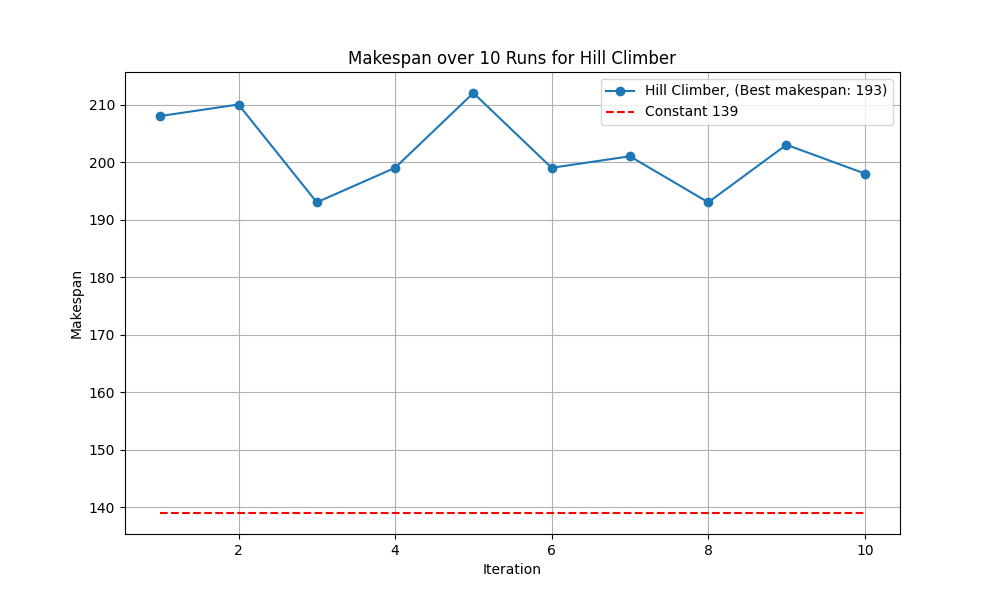
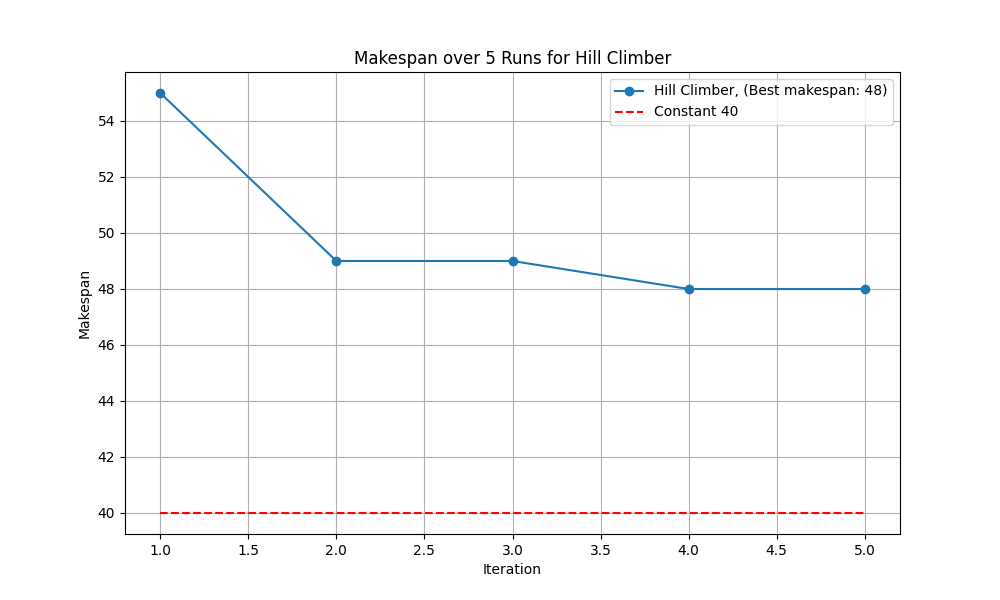
Separate scheule and compare script + algo.txt

diff --git a/main_schedule.py b/main_schedule.py
@@ -1,0 +1,133 @@
+from typing import List # For type hints to clarify data types
+
+from models import Job, Machine, Task
+from scheduler import Scheduler
+from utils import run_gannt_chart, save_chart_results
+
+
+
+### Data Reading from the file and object creation ###
+
+allJobs: List[Job] = []  # Will contain all the jobs with their tasks
+jobsNr: int = 0          # Will contain the number of jobs
+machinesNr: int = 0      # Will contain the number of machines
+ind: int = 0             # Will keep the job Id nr
+
+# Here is the read function in github data set format which is the following:
+"""
+First line: <number of jobs> <number of machines>
+Then one line per job: <number of operations> and then, for each operation, <number of machines for this operation> and for each machine, a pair <machine> <processing time>.
+Machine index starts at 0.
+"""
+with open('dataset_github.txt', 'r') as file:
+    #read by lines
+    first = True
+    for line in file:
+        allTasks = []# will keep all the tasks for a job before adding it to allJobs
+        elements = line.split()
+        if first: #we read the size of the problem JobsNr, MachinesNr
+            jobsNr, machinesNr = int(elements[0]), int(elements[1])
+            first = False
+        else: #here we read the tasks for each job and create the jobs
+            elements: List[int] = [int(e) for e in elements]        # Convert all to integers
+            curr_index: int = 0                                     # The index of where we are in the number array
+            num_ops: int = elements[curr_index]                     # Will contain the number of operations for the current job
+            curr_index += 1                         
+            operations: List[List[Task]] = []                       # List of list of tasks
+
+            for op in range(num_ops):                               # Here we "iterate" through the operations, or until the range of operations
+                num_machines: int = elements[curr_index]            # Here we'll keep the number of machines
+                curr_index += 1
+                task_list: List[Task] = []                          # A list of task for the current operation's tasks
+                
+                for m in range(num_machines):                       # Here we "iterate" through the machines and their durations, or until the range of machines
+                    machine_id: int = elements[curr_index]          # First element of the pair is machine_id
+                    curr_index += 1                         
+                    processing_time: int = elements[curr_index]     # Second element of the pair is processing time
+                    curr_index += 1
+                    task: Task = Task(machine_id, processing_time)  # We create the task
+                    task_list.append(task)                          # We append it to the current operaion's task list
+                    
+                operations.append(task_list)                        # We append the current operation with it's task to our operation list for the current job
+            
+            allJobs.append(Job(ind, operations))                    # We create the job with it's index and it's operaion list
+            ind += 1                                                # We increase the job index
+
+
+## Here is the read function for my format ##
+
+# with open('dataset2.txt', 'r') as file:
+#     #read by lines
+#     first = True
+#     for line in file:
+#         allTasks = []# will keep all the tasks for a job before adding it to allJobs
+#         elements = line.split()
+#         if first: #we read the size of the problem JobsNr, MachinesNr
+#             jobsNr, machinesNr = int(elements[0]), int(elements[1])
+#             first = False
+#         else: #here we read the tasks for each job and create the jobs
+#             isMachine = True
+#             isDuration = False
+#             add = []                                        #will keep the task list to be added
+#             currTaskNumbers = []                            #will keep the current task's [machine, duration]
+#             for element in elements:                        #we go through the elements of the job separated by space as strings
+#                 if(isMachine):          
+#                     if(element[0] == '['):                  #if it's the first one we remove the bracket
+#                         currTaskNumbers.append(int(element[1:]))
+#                     else:
+#                         currTaskNumbers.append(int(element))
+#                     #We swap the element's type processing
+#                     isMachine = False
+#                     isDuration = True
+#                 else:
+#                     if(element[len(element) - 1] == ']'):
+#                         currTaskNumbers.append(int(element[:-1]))
+#                         add.append(Task(currTaskNumbers[0], currTaskNumbers[1]))
+#                         currTaskNumbers.clear()
+#                         allTasks.append(copy.deepcopy(add))
+#                         add.clear()
+#                     else:
+#                         currTaskNumbers.append(int(element))
+#                         add.append(Task(currTaskNumbers[0], currTaskNumbers[1]))
+#                         currTaskNumbers.clear()
+#                     #We swap the element's type processing
+#                     isMachine = True
+#                     isDuration = False
+            
+#             allJobs.append(Job(ind, allTasks))
+#             ind += 1
+
+## Here the read function for my format ends ##
+
+# Define machines
+machines = []
+for i in range(machinesNr):
+    machines.append(Machine(i))
+# We finally initialise the scheduler
+scheduler = Scheduler(allJobs, machines)
+
+# This is the dictionaire for the heuristic names
+heuristic_names = {
+    'SPT'   : 'Shortest Processing Time',
+    'LPT'   : 'Longest Processing Time',
+    'MWR'   : 'Most Work Remaining',
+    'LWR'   : 'Least Work Remaining',
+    'SA'    : 'Simulated Annealing',
+    'HC'    : 'Hill Climber',
+    'TS'    : 'Tabu Search',
+    'GA'    : 'Genetic Algorithm',
+    'ILS'   : 'Iterated Local Search'
+}
+
+### Main Execution and Visualization ###
+scheduler = Scheduler(allJobs, machines)
+
+heuristics: List[str] = []
+with open('schedule_algorithms.txt', 'r') as file:
+    #read by lines
+    for line in file:
+        heuristics = line.split()
+
+
+for heuristic in heuristics:
+     run_gannt_chart(heuristic, scheduler, heuristic_names)

diff --git a/main_compare.py b/main_compare.py
@@ -120,8 +120,14 @@ heuristic_names = {
 }
 
 ### Main Execution and Visualization ###
-
-# Test all heuristics
 scheduler = Scheduler(allJobs, machines)
-for heuristic in ['SPT', 'LPT', 'MWR', 'LWR', 'SA', 'HC', 'TS', 'GA', 'ILS']:
-    run_gannt_chart(heuristic, scheduler, heuristic_names)
+
+heuristics: List[str] = []
+with open('compare_algorithms.txt', 'r') as file:
+    #read by lines
+    for line in file:
+        heuristics = line.split()
+
+
+for heuristic in heuristics:
+    save_chart_results(heuristic, 5, 40, scheduler, heuristic_names)
